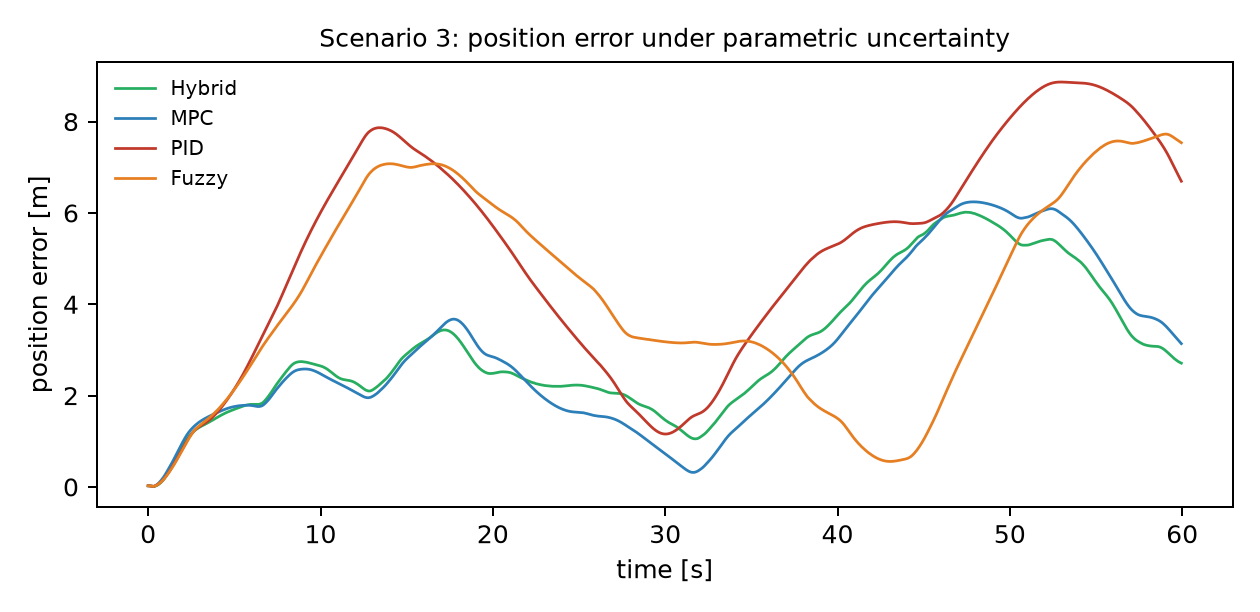
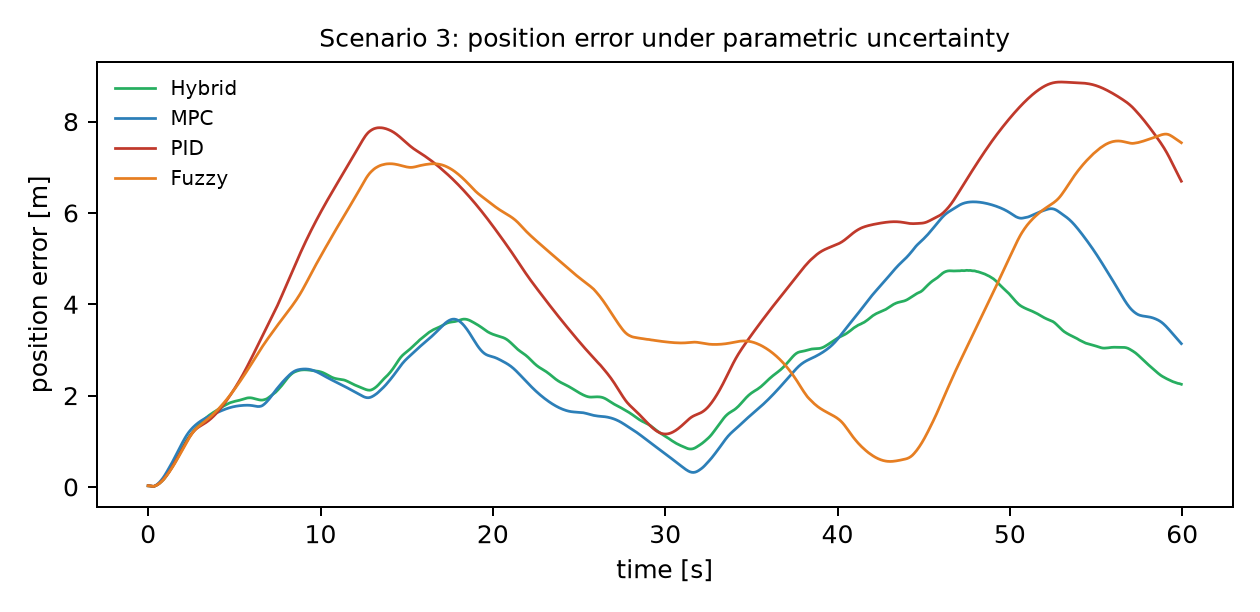
Regenerate scenario results with ESO-augmented S3 (hybrid now beats MPC)
Scenario 3 (circle, 100% parametric uncertainty): hybrid with ESO disturbance
compensation gives pos RMSE 2.89 m vs MPC 3.44 m and lower energy (was ~tied).
Panel (e) shows the ESO estimate tracking the time-varying uncertainty; control
saturates under the extreme uncertainty, which bounds achievable tracking.
Scenarios 1/2 unchanged (baseline already best). Updated tables, comparison
plots and the three 6-panel hybrid diagnostics.

Claude-Session: https://claude.ai/code/session_01EqTA97WWzLYUmNUAg6Z7rU

diff --git a/cfdl_mfac_ncp_td3/results/scenarios/RESULTS.md b/cfdl_mfac_ncp_td3/results/scenarios/RESULTS.md
@@ -26,19 +26,7 @@ Position RMSE [m] per velocity-measurement SNR (position SNR = 80 dB):
 
 | Controller | pos RMSE | yaw RMSE | energy |
 |---|---|---|---|
-| Hybrid | 3.3875 | 0.0602 | 258027.4 |
+| Hybrid | 2.8898 | 0.0649 | 251685.2 |
 | MPC | 3.4377 | 0.0513 | 269173.9 |
 | PID | 5.6755 | 0.2785 | 231992.0 |
 | Fuzzy | 4.7455 | 0.2607 | 228013.8 |
-
-## Per-scenario 6-panel diagnostics (hybrid controller)
-
-For each scenario a six-panel figure of the hybrid controller is provided
-(`hybrid_scenario{1,2,3}_panels.png`):
-(a) reference and response in the xy-plane, (b) tracking errors (x, y, wrapped
-yaw), (c) AUV body-frame velocity (u, v, r), (d) control input (surge/sway/yaw),
-(e) the total (incremental) disturbance estimate f̂(k) from the ESO/NDOB, and
-(f) the external disturbances. In Scenario 2 the estimate f̂(k) tracks the
-injected disturbance (e.g. the yaw channel settles at the ~4 N·m step), and in
-Scenario 3 f̂(k) captures the time-varying parametric-uncertainty mismatch
-(no external disturbance is applied, so panel (f) is zero).
